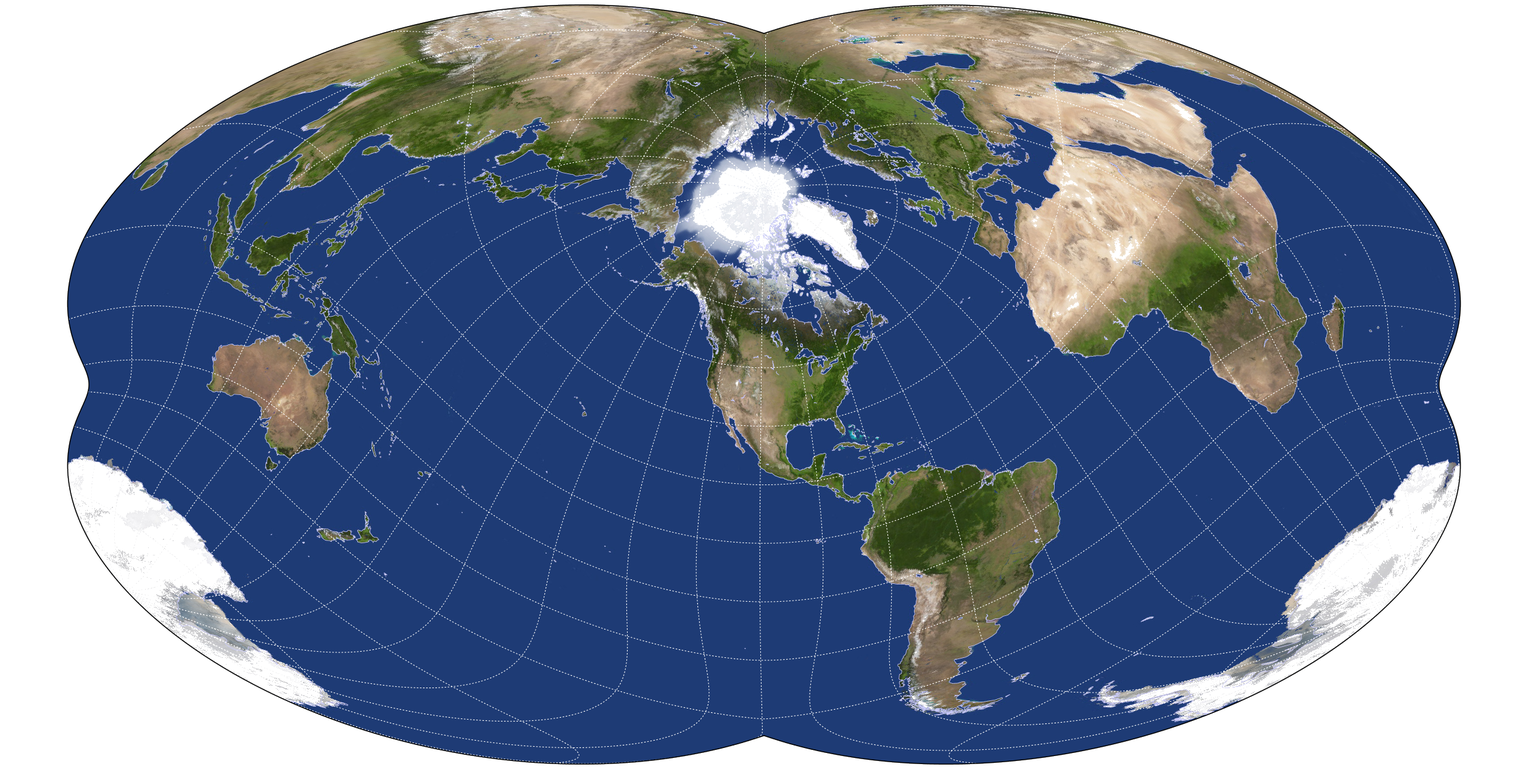
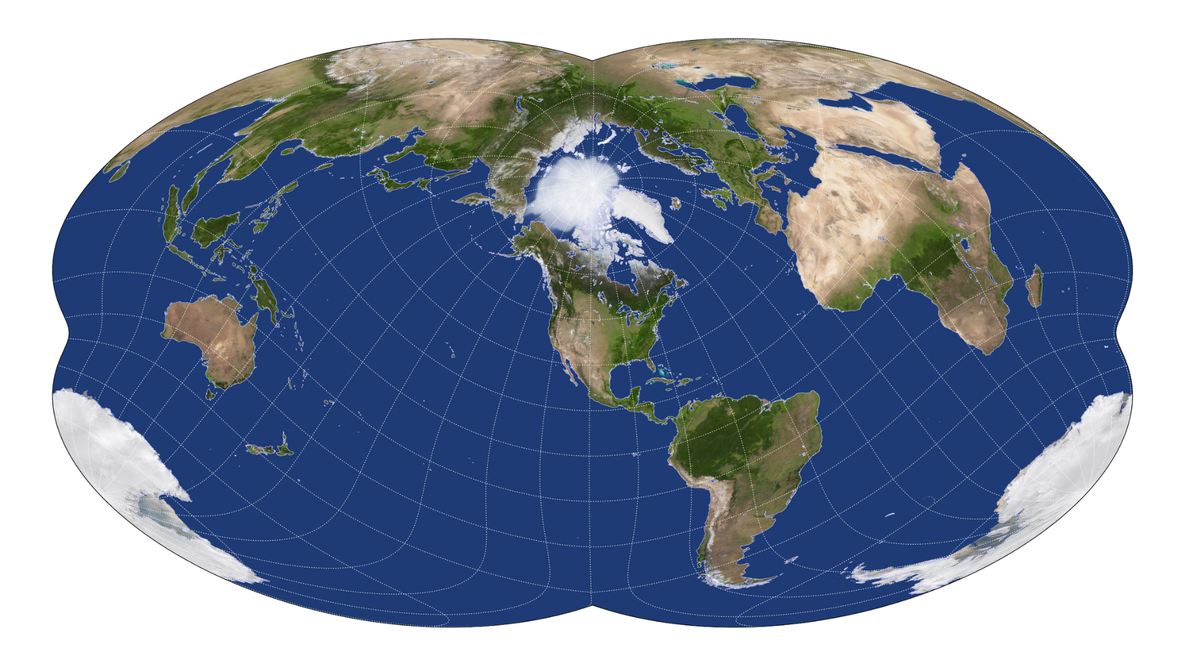
S831 — CP texture: swap to 1920x1080 centred artwork (alpha-keyed)

diff --git a/js-min/core/projections.js b/js-min/core/projections.js
@@ -1,3 +1,3 @@
-const o=Math.PI/180;function p(e,a,t,i){const s=a*o,n=t*i(e);return[n*Math.cos(s),n*Math.sin(s),0]}const _=e=>(90-e)/180,S=e=>Math.sin((90-e)*Math.PI/360),H=e=>Math.pow((90-e)/180,.75);function y(e,a,t=1){const i=e*o,s=a*o,n=Math.cos(i)*Math.cos(s),r=Math.acos(Math.max(-1,Math.min(1,n)));if(r<1e-9)return[0,0,0];const c=r/Math.PI/Math.sin(r);return[t*c*Math.cos(i)*Math.sin(s),t*c*Math.sin(i),0]}function j(e,a){const t=e*e,i=a*a,s=i*i;return e*Math.cos(a)*(.9457+(.2962+.042*t)*i-.1875*s)}function R(e,a){const t=e*e,i=a*a;return .9836*a+(.0472-.0106*t+.0929*i)*t*a*Math.cos(a)}const w=Math.abs(j(Math.PI,0)),V=Math.abs(R(0,Math.PI/2));function G(e,a,t,i){const s=a*o,n=e*o,r=Math.cos(s)*Math.cos(n),c=Math.cos(s)*Math.sin(n),g=Math.sin(s),d=t*o,h=Math.cos(d),l=Math.sin(d),u=r*h+c*l,M=-r*l+c*h,q=g,b=i*o,f=Math.cos(b),I=Math.sin(b),k=u*f+q*I,v=M,N=-u*I+q*f,x=Math.asin(Math.max(-1,Math.min(1,N)));return[Math.atan2(v,k),x]}function W(e,a,t=1,i=40.71,s=-104.01){const[n,r]=G(a,e,s,i),c=j(n,r),g=R(n,r);return[t*c/w,t*g/w,0]}function m(e,a,t=1){return[t*a/180,t*e/360,0]}function O(e,a,t=1){const i=Math.max(-85,Math.min(85,e))*o,s=Math.log(Math.tan(Math.PI/4+i/2));return[t*a/180,t*s/3.131,0]}function L(e,a,t=1){const i=e*o,s=a*o;let n=i;for(let g=0;g<10;g++){const d=2*n+Math.sin(2*n)-Math.PI*Math.sin(i),h=2+2*Math.cos(2*n),l=d/(Math.abs(h)<1e-9?1e-9:h);if(n-=l,Math.abs(l)<1e-8)break}const r=2*Math.sqrt(2)/Math.PI*s*Math.cos(n),c=Math.sqrt(2)*Math.sin(n);return[t*r/(2*Math.sqrt(2)),t*c/(2*Math.sqrt(2)),0]}const E=[[0,1,0],[5,.9986,.062],[10,.9954,.124],[15,.99,.186],[20,.9822,.248],[25,.973,.31],[30,.96,.372],[35,.9427,.434],[40,.9216,.4958],[45,.8962,.5571],[50,.8679,.6176],[55,.835,.6769],[60,.7986,.7346],[65,.7597,.7903],[70,.7186,.8435],[75,.6732,.8936],[80,.6213,.9394],[85,.5722,.9761],[90,.5322,1]];function T(e){const a=Math.max(0,Math.min(17,Math.floor(e/5))),t=E[a],i=E[a+1],s=(e-t[0])/5;return{A:t[1]+s*(i[1]-t[1]),B:t[2]+s*(i[2]-t[2])}}function D(e,a,t=1){const i=e<0?-1:1,{A:s,B:n}=T(Math.abs(e)),r=.8487*s*a*o,c=1.3523*i*n;return[t*r/(.8487*Math.PI),t*c/2.666,0]}function z(e,a,t=1){const i=e*o,s=a*o,n=Math.acos(Math.min(1,Math.cos(i)*Math.cos(s/2))),r=Math.abs(n)<1e-9?1:Math.sin(n)/n,c=2*Math.cos(i)*Math.sin(s/2)/r,g=Math.sin(i)/r,d=Math.acos(2/Math.PI),h=s*Math.cos(d),l=i,u=(c+h)/2,M=(g+l)/2;return[t*u/2.507,t*M/2.507,0]}function B(e,a,t=1){const i=e*o,s=a*o,n=Math.sqrt(1+Math.cos(i)*Math.cos(s/2)),r=2*Math.sqrt(2)*Math.cos(i)*Math.sin(s/2)/n,c=Math.sqrt(2)*Math.sin(i)/n;return[t*r/(2*Math.sqrt(2)),t*c/(2*Math.sqrt(2)),0]}function C(e,a,t=1){const i=e*o,s=a*o,n=Math.acos(Math.min(1,Math.cos(i)*Math.cos(s/2))),r=Math.abs(n)<1e-9?1:Math.sin(n)/n,c=2*Math.cos(i)*Math.sin(s/2)/r,g=Math.sin(i)/r;return[t*c/Math.PI,t*g/Math.PI,0]}function F(e,a,t=1){const i=e*o,n=a*o*Math.cos(i),r=i;return[t*n/Math.PI,t*r/Math.PI,0]}function Q(e,a,t=1){const s=-.081106,n=893e-6,r=.003796,c=Math.sqrt(3)/2,g=e*o,d=a*o,h=Math.asin(c*Math.sin(g)),l=h*h,u=l*l*l,M=c*(1.340264+3*s*l+u*(7*n+9*r*l)),q=d*Math.cos(h)/M,b=h*(1.340264+s*l+u*(n+r*l));return[t*q/2.7,t*b/2.7,0]}function P(e,a,t=1){const i=e*o,s=a*o,n=Math.cos(i)*Math.sin(s),r=Math.sin(i);return[t*n,t*r,0]}function X(e,a,t=1){const i=e*o,s=a*o;let n=i/2;for(let h=0;h<10;h++){const l=n+Math.sin(n)*Math.cos(n)+2*Math.sin(n)-(2+Math.PI/2)*Math.sin(i),u=1+Math.cos(n)*Math.cos(n)-Math.sin(n)*Math.sin(n)+2*Math.cos(n),M=l/(Math.abs(u)<1e-9?1e-9:u);if(n-=M,Math.abs(M)<1e-8)break}const r=2/Math.sqrt(Math.PI*(4+Math.PI)),c=2*Math.sqrt(Math.PI/(4+Math.PI)),g=r*s*(1+Math.cos(n)),d=c*Math.sin(n);return[t*g/(r*Math.PI*2),t*d/(r*Math.PI*2),0]}const A={ae:{id:"ae",name:"Default (AE)",category:"generated",imageAsset:null,imageInscribedRadius:.5,notes:"Azimuthal-equidistant, polar aspect. Pole at disc centre.",project(e,a,t=1){return p(e,a,t,_)}},blank:{id:"blank",name:"Blank (no features)",category:"generated",imageAsset:null,imageInscribedRadius:.5,renderStyle:"blank",notes:"Same math as AE; renders as solid black for coordinate inspection.",project(e,a,t=1){return p(e,a,t,_)}},ae_lineart:{id:"ae_lineart",name:"AE Line Art (black + white outlines)",category:"generated",imageAsset:null,imageInscribedRadius:.5,renderStyle:"lineart",landStyle:{strokeColor:15265525,strokeOpacity:1},notes:"Solid-black AE disc with Natural Earth continents traced in white. Matches the GE Line Art aesthetic so flight-route demos read clean across both projections.",project(e,a,t=1){return p(e,a,t,_)}},hellerick:{id:"hellerick",name:"Hellerick boreal",category:"generated",imageAsset:null,imageInscribedRadius:.5,notes:"Lambert azimuthal equal-area, polar aspect.",project(e,a,t=1){return p(e,a,t,S)}},proportional:{id:"proportional",name:"Proportional AE Map",category:"generated",imageAsset:"assets/map_proportional.png",imageNativeWidth:1920,imageNativeHeight:1080,imageInscribedRadius:.5,imageRotationDeg:79,notes:"Artwork-driven AE power-law tweak (exponent 0.75).",project(e,a,t=1){return p(e,a,t,H)}},ae_dual:{id:"ae_dual",name:"AE Equatorial (dual-pole)",category:"generated",imageAsset:null,imageInscribedRadius:.5,notes:"Azimuthal-equidistant centred at (0\xB0, 0\xB0), edge angle 180\xB0. Both geographic poles fall on the vertical centre-line as distinct points.",project:y},canters_w20:{id:"canters_w20",name:"Canters Polyconic W20",category:"generated",imageAsset:"assets/map_canters_polyconic_w20.png",imageNativeWidth:1944,imageNativeHeight:974,imageInscribedRadius:.5,imageFitMode:"plane",useProjectionGrid:!0,centerLatDeg:40.71,centerLonDeg:-104.01,notes:"Frank Canters' 2002 polyconic W20 \u2014 pseudoconic, near-equal-area. Centred on (40.71\xB0 N, 104.01\xB0 W) per generated artwork.",project(e,a,t=1){return W(e,a,t,this.centerLatDeg,this.centerLonDeg)}},equirect:{id:"equirect",name:"Equirectangular",category:"generated",imageAsset:null,imageInscribedRadius:.5,notes:"Plate carr\xE9e: x = lon, y = lat. 2:1 aspect.",project:m},mercator:{id:"mercator",name:"Mercator",category:"generated",imageAsset:null,imageInscribedRadius:.5,notes:"Conformal cylindrical; poles diverge, clamped to \xB185\xB0.",project:O},mollweide:{id:"mollweide",name:"Mollweide",category:"generated",imageAsset:null,imageInscribedRadius:.5,notes:"Pseudocylindrical equal-area ellipse, 2:1.",project:L},robinson:{id:"robinson",name:"Robinson",category:"generated",imageAsset:null,imageInscribedRadius:.5,notes:"Pseudocylindrical compromise, 5\xB0-spaced lookup table.",project:D},winkel_tripel:{id:"winkel_tripel",name:"Winkel Tripel",category:"generated",imageAsset:null,imageInscribedRadius:.5,notes:"Mean of Aitoff and equirectangular at \u03C6 = acos(2/\u03C0); National Geographic standard.",project:z},hammer:{id:"hammer",name:"Hammer",category:"generated",imageAsset:null,imageInscribedRadius:.5,notes:"Lambert azimuthal equal-area, horizontally squashed 2:1.",project:B},aitoff:{id:"aitoff",name:"Aitoff",category:"generated",imageAsset:null,imageInscribedRadius:.5,notes:"Equirectangular scaled by sinc(\u03B1) over halved longitude.",project:C},sinusoidal:{id:"sinusoidal",name:"Sinusoidal",category:"generated",imageAsset:null,imageInscribedRadius:.5,notes:"Equal-area with sine-curved meridians.",project:F},equal_earth:{id:"equal_earth",name:"Equal Earth",category:"generated",imageAsset:null,imageInscribedRadius:.5,notes:"Equal-area polynomial, Savri\u010D\u2013Patterson\u2013Jenny (2018).",project:Q},eckert4:{id:"eckert4",name:"Eckert IV",category:"generated",imageAsset:null,imageInscribedRadius:.5,notes:"Pseudocylindrical equal-area with pole-line.",project:X},orthographic:{id:"orthographic",name:"Orthographic",category:"generated",imageAsset:null,imageInscribedRadius:.5,notes:"View of one hemisphere from infinity, centred on (0\xB0, 0\xB0).",project:P},hq_blank:{id:"hq_blank",name:"Blank (black disc)",category:"hq",imageAsset:null,imageInscribedRadius:.5,renderStyle:"blank",notes:"Solid-black disc; AE polar math drives the FE grid.",project(e,a,t=1){return p(e,a,t,_)}},hq_equirect_day:{id:"hq_equirect_day",name:"HQ Equirectangular (day)",category:"hq",imageAsset:"assets/map_hq_equirect_day.webp",imageAssetFallback:"assets/map_hq_equirect_day.jpg",imageNativeWidth:2048,imageNativeHeight:1024,imageInscribedRadius:.5,wrapsSphere:!0,notes:"NASA Blue Marble equirectangular daymap.",project:m},hq_equirect_night:{id:"hq_equirect_night",name:"HQ Equirectangular (night)",category:"hq",imageAsset:"assets/map_hq_equirect_night.webp",imageAssetFallback:"assets/map_hq_equirect_night.jpg",imageNativeWidth:2048,imageNativeHeight:1024,imageInscribedRadius:.5,wrapsSphere:!0,notes:"NASA Black Marble equirectangular nightmap.",project:m},hq_ae_dual:{id:"hq_ae_dual",name:"HQ AE Equatorial (dual-pole)",category:"hq",imageAsset:"assets/map_hq_ae_dual.png",imageNativeWidth:2476,imageNativeHeight:1246,imageInscribedRadius:.5,notes:"Azimuthal-equidistant centred at (0\xB0, 0\xB0), edge angle 180\xB0.",project:y},dp:{id:"dp",name:"DP (Dual Pole)",category:"hq",imageAsset:"assets/map_hq_ae_dual.png",imageNativeWidth:2476,imageNativeHeight:1246,imageInscribedRadius:.5,useProjectionGrid:!0,notes:"Dual Pole \u2014 azimuthal-equidistant centred at (0\xB0, 0\xB0). Both geographic poles fall on the vertical centre-line as distinct points. FE lat/lon graticule renders with this projection rather than canonical north-pole AE.",project:y},hq_ae_polar_day:{id:"hq_ae_polar_day",name:"HQ AE Polar (day)",category:"hq",imageAsset:"assets/map_hq_ae_polar_day.png",imageNativeWidth:2476,imageNativeHeight:1246,imageInscribedRadius:.5,notes:"Azimuthal-equidistant polar aspect, north pole at centre, daymap.",project(e,a,t=1){return p(e,a,t,_)}},hq_ae_polar_night:{id:"hq_ae_polar_night",name:"HQ AE Polar (night)",category:"hq",imageAsset:"assets/map_hq_ae_polar_night.png",imageNativeWidth:2476,imageNativeHeight:1246,imageInscribedRadius:.5,notes:"Azimuthal-equidistant polar aspect, north pole at centre, nightmap.",project(e,a,t=1){return p(e,a,t,_)}},hq_gleasons:{id:"hq_gleasons",name:"HQ Gleason's Map",category:"hq",imageAsset:"assets/map_hq_gleasons.png",imageNativeWidth:1920,imageNativeHeight:1080,imageInscribedRadius:.5,notes:"Gleason's New Standard Map of the World \u2014 north-pole AE.",project(e,a,t=1){return p(e,a,t,_)}},hq_world_shaded:{id:"hq_world_shaded",name:"HQ World Shaded Relief",category:"hq",imageAsset:"assets/map_hq_world_shaded.jpg",imageNativeWidth:7998,imageNativeHeight:3999,imageInscribedRadius:.5,wrapsSphere:!0,notes:"High-resolution equirectangular shaded relief (~43 k px wide source).",project:m},ge_art_line:{id:"ge_art_line",name:"GE Art \u2014 Line Art",category:"ge_art",generatedGeTexture:"ge_line_art",imageAsset:null,imageInscribedRadius:.5,wrapsSphere:!0,notes:"White-on-black line art continents drawn from Natural Earth.",project:m},ge_art_blueprint:{id:"ge_art_blueprint",name:"GE Art \u2014 Blueprint",category:"ge_art",generatedGeTexture:"ge_blueprint",imageAsset:null,imageInscribedRadius:.5,wrapsSphere:!0,notes:"Cyan continents over navy with a 30\xB0/15\xB0 graticule.",project:m},ge_art_topo:{id:"ge_art_topo",name:"GE Art \u2014 Topo",category:"ge_art",generatedGeTexture:"ge_topo",imageAsset:null,imageInscribedRadius:.5,wrapsSphere:!0,notes:"Filled green continents on pale-blue ocean, dark-green coastlines.",project:m},ge_art_sepia:{id:"ge_art_sepia",name:"GE Art \u2014 Sepia",category:"ge_art",generatedGeTexture:"ge_sepia",imageAsset:null,imageInscribedRadius:.5,wrapsSphere:!0,notes:"Old-atlas sepia tones with a 30\xB0 graticule.",project:m},ge_art_neon:{id:"ge_art_neon",name:"GE Art \u2014 Neon",category:"ge_art",generatedGeTexture:"ge_neon",imageAsset:null,imageInscribedRadius:.5,wrapsSphere:!0,notes:"Magenta + cyan glow coastlines on near-black ocean.",project:m},ge_art_translucent:{id:"ge_art_translucent",name:"GE Art \u2014 Translucent",category:"ge_art",generatedGeTexture:"ge_translucent",imageAsset:null,imageInscribedRadius:.5,wrapsSphere:!0,geOpacity:.12,notes:"See-through globe \u2014 faint blue continents, lets the centre observer view the celestial sphere through the shell.",project:m},hq_ortho:{id:"hq_ortho",name:"HQ Orthographic Globe",category:"hq",imageAsset:"assets/map_hq_ortho.png",imageNativeWidth:2476,imageNativeHeight:1246,imageInscribedRadius:.5,notes:"Orthographic globe view, centred on (0\xB0, 0\xB0).",project:P}};function J(e){return A[e]||A.ae}function K(){return Object.values(A).map(e=>({value:e.id,label:e.name}))}function U(){return Object.values(A).filter(e=>e.category==="generated").map(e=>({value:e.id,label:e.name}))}function Z(){return Object.values(A).filter(e=>e.category==="hq").map(e=>({value:e.id,label:e.name}))}function $(){return Object.values(A).filter(e=>e.wrapsSphere===!0).map(e=>({value:e.id,label:e.name}))}export{A as PROJECTIONS,J as getProjection,$ as listGeMaps,U as listGeneratedProjections,Z as listHqMaps,K as listProjections};
+const o=Math.PI/180;function p(e,a,t,i){const s=a*o,n=t*i(e);return[n*Math.cos(s),n*Math.sin(s),0]}const _=e=>(90-e)/180,S=e=>Math.sin((90-e)*Math.PI/360),H=e=>Math.pow((90-e)/180,.75);function y(e,a,t=1){const i=e*o,s=a*o,n=Math.cos(i)*Math.cos(s),r=Math.acos(Math.max(-1,Math.min(1,n)));if(r<1e-9)return[0,0,0];const c=r/Math.PI/Math.sin(r);return[t*c*Math.cos(i)*Math.sin(s),t*c*Math.sin(i),0]}function j(e,a){const t=e*e,i=a*a,s=i*i;return e*Math.cos(a)*(.9457+(.2962+.042*t)*i-.1875*s)}function R(e,a){const t=e*e,i=a*a;return .9836*a+(.0472-.0106*t+.0929*i)*t*a*Math.cos(a)}const w=Math.abs(j(Math.PI,0)),V=Math.abs(R(0,Math.PI/2));function G(e,a,t,i){const s=a*o,n=e*o,r=Math.cos(s)*Math.cos(n),c=Math.cos(s)*Math.sin(n),g=Math.sin(s),d=t*o,h=Math.cos(d),l=Math.sin(d),u=r*h+c*l,M=-r*l+c*h,q=g,b=i*o,f=Math.cos(b),I=Math.sin(b),k=u*f+q*I,v=M,N=-u*I+q*f,x=Math.asin(Math.max(-1,Math.min(1,N)));return[Math.atan2(v,k),x]}function W(e,a,t=1,i=40.71,s=-104.01){const[n,r]=G(a,e,s,i),c=j(n,r),g=R(n,r);return[t*c/w,t*g/w,0]}function m(e,a,t=1){return[t*a/180,t*e/360,0]}function O(e,a,t=1){const i=Math.max(-85,Math.min(85,e))*o,s=Math.log(Math.tan(Math.PI/4+i/2));return[t*a/180,t*s/3.131,0]}function L(e,a,t=1){const i=e*o,s=a*o;let n=i;for(let g=0;g<10;g++){const d=2*n+Math.sin(2*n)-Math.PI*Math.sin(i),h=2+2*Math.cos(2*n),l=d/(Math.abs(h)<1e-9?1e-9:h);if(n-=l,Math.abs(l)<1e-8)break}const r=2*Math.sqrt(2)/Math.PI*s*Math.cos(n),c=Math.sqrt(2)*Math.sin(n);return[t*r/(2*Math.sqrt(2)),t*c/(2*Math.sqrt(2)),0]}const E=[[0,1,0],[5,.9986,.062],[10,.9954,.124],[15,.99,.186],[20,.9822,.248],[25,.973,.31],[30,.96,.372],[35,.9427,.434],[40,.9216,.4958],[45,.8962,.5571],[50,.8679,.6176],[55,.835,.6769],[60,.7986,.7346],[65,.7597,.7903],[70,.7186,.8435],[75,.6732,.8936],[80,.6213,.9394],[85,.5722,.9761],[90,.5322,1]];function T(e){const a=Math.max(0,Math.min(17,Math.floor(e/5))),t=E[a],i=E[a+1],s=(e-t[0])/5;return{A:t[1]+s*(i[1]-t[1]),B:t[2]+s*(i[2]-t[2])}}function D(e,a,t=1){const i=e<0?-1:1,{A:s,B:n}=T(Math.abs(e)),r=.8487*s*a*o,c=1.3523*i*n;return[t*r/(.8487*Math.PI),t*c/2.666,0]}function z(e,a,t=1){const i=e*o,s=a*o,n=Math.acos(Math.min(1,Math.cos(i)*Math.cos(s/2))),r=Math.abs(n)<1e-9?1:Math.sin(n)/n,c=2*Math.cos(i)*Math.sin(s/2)/r,g=Math.sin(i)/r,d=Math.acos(2/Math.PI),h=s*Math.cos(d),l=i,u=(c+h)/2,M=(g+l)/2;return[t*u/2.507,t*M/2.507,0]}function B(e,a,t=1){const i=e*o,s=a*o,n=Math.sqrt(1+Math.cos(i)*Math.cos(s/2)),r=2*Math.sqrt(2)*Math.cos(i)*Math.sin(s/2)/n,c=Math.sqrt(2)*Math.sin(i)/n;return[t*r/(2*Math.sqrt(2)),t*c/(2*Math.sqrt(2)),0]}function C(e,a,t=1){const i=e*o,s=a*o,n=Math.acos(Math.min(1,Math.cos(i)*Math.cos(s/2))),r=Math.abs(n)<1e-9?1:Math.sin(n)/n,c=2*Math.cos(i)*Math.sin(s/2)/r,g=Math.sin(i)/r;return[t*c/Math.PI,t*g/Math.PI,0]}function F(e,a,t=1){const i=e*o,n=a*o*Math.cos(i),r=i;return[t*n/Math.PI,t*r/Math.PI,0]}function Q(e,a,t=1){const s=-.081106,n=893e-6,r=.003796,c=Math.sqrt(3)/2,g=e*o,d=a*o,h=Math.asin(c*Math.sin(g)),l=h*h,u=l*l*l,M=c*(1.340264+3*s*l+u*(7*n+9*r*l)),q=d*Math.cos(h)/M,b=h*(1.340264+s*l+u*(n+r*l));return[t*q/2.7,t*b/2.7,0]}function P(e,a,t=1){const i=e*o,s=a*o,n=Math.cos(i)*Math.sin(s),r=Math.sin(i);return[t*n,t*r,0]}function X(e,a,t=1){const i=e*o,s=a*o;let n=i/2;for(let h=0;h<10;h++){const l=n+Math.sin(n)*Math.cos(n)+2*Math.sin(n)-(2+Math.PI/2)*Math.sin(i),u=1+Math.cos(n)*Math.cos(n)-Math.sin(n)*Math.sin(n)+2*Math.cos(n),M=l/(Math.abs(u)<1e-9?1e-9:u);if(n-=M,Math.abs(M)<1e-8)break}const r=2/Math.sqrt(Math.PI*(4+Math.PI)),c=2*Math.sqrt(Math.PI/(4+Math.PI)),g=r*s*(1+Math.cos(n)),d=c*Math.sin(n);return[t*g/(r*Math.PI*2),t*d/(r*Math.PI*2),0]}const A={ae:{id:"ae",name:"Default (AE)",category:"generated",imageAsset:null,imageInscribedRadius:.5,notes:"Azimuthal-equidistant, polar aspect. Pole at disc centre.",project(e,a,t=1){return p(e,a,t,_)}},blank:{id:"blank",name:"Blank (no features)",category:"generated",imageAsset:null,imageInscribedRadius:.5,renderStyle:"blank",notes:"Same math as AE; renders as solid black for coordinate inspection.",project(e,a,t=1){return p(e,a,t,_)}},ae_lineart:{id:"ae_lineart",name:"AE Line Art (black + white outlines)",category:"generated",imageAsset:null,imageInscribedRadius:.5,renderStyle:"lineart",landStyle:{strokeColor:15265525,strokeOpacity:1},notes:"Solid-black AE disc with Natural Earth continents traced in white. Matches the GE Line Art aesthetic so flight-route demos read clean across both projections.",project(e,a,t=1){return p(e,a,t,_)}},hellerick:{id:"hellerick",name:"Hellerick boreal",category:"generated",imageAsset:null,imageInscribedRadius:.5,notes:"Lambert azimuthal equal-area, polar aspect.",project(e,a,t=1){return p(e,a,t,S)}},proportional:{id:"proportional",name:"Proportional AE Map",category:"generated",imageAsset:"assets/map_proportional.png",imageNativeWidth:1920,imageNativeHeight:1080,imageInscribedRadius:.5,imageRotationDeg:79,notes:"Artwork-driven AE power-law tweak (exponent 0.75).",project(e,a,t=1){return p(e,a,t,H)}},ae_dual:{id:"ae_dual",name:"AE Equatorial (dual-pole)",category:"generated",imageAsset:null,imageInscribedRadius:.5,notes:"Azimuthal-equidistant centred at (0\xB0, 0\xB0), edge angle 180\xB0. Both geographic poles fall on the vertical centre-line as distinct points.",project:y},canters_w20:{id:"canters_w20",name:"Canters Polyconic W20",category:"generated",imageAsset:"assets/map_canters_polyconic_w20.png",imageNativeWidth:1920,imageNativeHeight:1080,imageInscribedRadius:.5,imageFitMode:"plane",useProjectionGrid:!0,centerLatDeg:40.71,centerLonDeg:-104.01,notes:"Frank Canters' 2002 polyconic W20 \u2014 pseudoconic, near-equal-area. Centred on (40.71\xB0 N, 104.01\xB0 W) per generated artwork.",project(e,a,t=1){return W(e,a,t,this.centerLatDeg,this.centerLonDeg)}},equirect:{id:"equirect",name:"Equirectangular",category:"generated",imageAsset:null,imageInscribedRadius:.5,notes:"Plate carr\xE9e: x = lon, y = lat. 2:1 aspect.",project:m},mercator:{id:"mercator",name:"Mercator",category:"generated",imageAsset:null,imageInscribedRadius:.5,notes:"Conformal cylindrical; poles diverge, clamped to \xB185\xB0.",project:O},mollweide:{id:"mollweide",name:"Mollweide",category:"generated",imageAsset:null,imageInscribedRadius:.5,notes:"Pseudocylindrical equal-area ellipse, 2:1.",project:L},robinson:{id:"robinson",name:"Robinson",category:"generated",imageAsset:null,imageInscribedRadius:.5,notes:"Pseudocylindrical compromise, 5\xB0-spaced lookup table.",project:D},winkel_tripel:{id:"winkel_tripel",name:"Winkel Tripel",category:"generated",imageAsset:null,imageInscribedRadius:.5,notes:"Mean of Aitoff and equirectangular at \u03C6 = acos(2/\u03C0); National Geographic standard.",project:z},hammer:{id:"hammer",name:"Hammer",category:"generated",imageAsset:null,imageInscribedRadius:.5,notes:"Lambert azimuthal equal-area, horizontally squashed 2:1.",project:B},aitoff:{id:"aitoff",name:"Aitoff",category:"generated",imageAsset:null,imageInscribedRadius:.5,notes:"Equirectangular scaled by sinc(\u03B1) over halved longitude.",project:C},sinusoidal:{id:"sinusoidal",name:"Sinusoidal",category:"generated",imageAsset:null,imageInscribedRadius:.5,notes:"Equal-area with sine-curved meridians.",project:F},equal_earth:{id:"equal_earth",name:"Equal Earth",category:"generated",imageAsset:null,imageInscribedRadius:.5,notes:"Equal-area polynomial, Savri\u010D\u2013Patterson\u2013Jenny (2018).",project:Q},eckert4:{id:"eckert4",name:"Eckert IV",category:"generated",imageAsset:null,imageInscribedRadius:.5,notes:"Pseudocylindrical equal-area with pole-line.",project:X},orthographic:{id:"orthographic",name:"Orthographic",category:"generated",imageAsset:null,imageInscribedRadius:.5,notes:"View of one hemisphere from infinity, centred on (0\xB0, 0\xB0).",project:P},hq_blank:{id:"hq_blank",name:"Blank (black disc)",category:"hq",imageAsset:null,imageInscribedRadius:.5,renderStyle:"blank",notes:"Solid-black disc; AE polar math drives the FE grid.",project(e,a,t=1){return p(e,a,t,_)}},hq_equirect_day:{id:"hq_equirect_day",name:"HQ Equirectangular (day)",category:"hq",imageAsset:"assets/map_hq_equirect_day.webp",imageAssetFallback:"assets/map_hq_equirect_day.jpg",imageNativeWidth:2048,imageNativeHeight:1024,imageInscribedRadius:.5,wrapsSphere:!0,notes:"NASA Blue Marble equirectangular daymap.",project:m},hq_equirect_night:{id:"hq_equirect_night",name:"HQ Equirectangular (night)",category:"hq",imageAsset:"assets/map_hq_equirect_night.webp",imageAssetFallback:"assets/map_hq_equirect_night.jpg",imageNativeWidth:2048,imageNativeHeight:1024,imageInscribedRadius:.5,wrapsSphere:!0,notes:"NASA Black Marble equirectangular nightmap.",project:m},hq_ae_dual:{id:"hq_ae_dual",name:"HQ AE Equatorial (dual-pole)",category:"hq",imageAsset:"assets/map_hq_ae_dual.png",imageNativeWidth:2476,imageNativeHeight:1246,imageInscribedRadius:.5,notes:"Azimuthal-equidistant centred at (0\xB0, 0\xB0), edge angle 180\xB0.",project:y},dp:{id:"dp",name:"DP (Dual Pole)",category:"hq",imageAsset:"assets/map_hq_ae_dual.png",imageNativeWidth:2476,imageNativeHeight:1246,imageInscribedRadius:.5,useProjectionGrid:!0,notes:"Dual Pole \u2014 azimuthal-equidistant centred at (0\xB0, 0\xB0). Both geographic poles fall on the vertical centre-line as distinct points. FE lat/lon graticule renders with this projection rather than canonical north-pole AE.",project:y},hq_ae_polar_day:{id:"hq_ae_polar_day",name:"HQ AE Polar (day)",category:"hq",imageAsset:"assets/map_hq_ae_polar_day.png",imageNativeWidth:2476,imageNativeHeight:1246,imageInscribedRadius:.5,notes:"Azimuthal-equidistant polar aspect, north pole at centre, daymap.",project(e,a,t=1){return p(e,a,t,_)}},hq_ae_polar_night:{id:"hq_ae_polar_night",name:"HQ AE Polar (night)",category:"hq",imageAsset:"assets/map_hq_ae_polar_night.png",imageNativeWidth:2476,imageNativeHeight:1246,imageInscribedRadius:.5,notes:"Azimuthal-equidistant polar aspect, north pole at centre, nightmap.",project(e,a,t=1){return p(e,a,t,_)}},hq_gleasons:{id:"hq_gleasons",name:"HQ Gleason's Map",category:"hq",imageAsset:"assets/map_hq_gleasons.png",imageNativeWidth:1920,imageNativeHeight:1080,imageInscribedRadius:.5,notes:"Gleason's New Standard Map of the World \u2014 north-pole AE.",project(e,a,t=1){return p(e,a,t,_)}},hq_world_shaded:{id:"hq_world_shaded",name:"HQ World Shaded Relief",category:"hq",imageAsset:"assets/map_hq_world_shaded.jpg",imageNativeWidth:7998,imageNativeHeight:3999,imageInscribedRadius:.5,wrapsSphere:!0,notes:"High-resolution equirectangular shaded relief (~43 k px wide source).",project:m},ge_art_line:{id:"ge_art_line",name:"GE Art \u2014 Line Art",category:"ge_art",generatedGeTexture:"ge_line_art",imageAsset:null,imageInscribedRadius:.5,wrapsSphere:!0,notes:"White-on-black line art continents drawn from Natural Earth.",project:m},ge_art_blueprint:{id:"ge_art_blueprint",name:"GE Art \u2014 Blueprint",category:"ge_art",generatedGeTexture:"ge_blueprint",imageAsset:null,imageInscribedRadius:.5,wrapsSphere:!0,notes:"Cyan continents over navy with a 30\xB0/15\xB0 graticule.",project:m},ge_art_topo:{id:"ge_art_topo",name:"GE Art \u2014 Topo",category:"ge_art",generatedGeTexture:"ge_topo",imageAsset:null,imageInscribedRadius:.5,wrapsSphere:!0,notes:"Filled green continents on pale-blue ocean, dark-green coastlines.",project:m},ge_art_sepia:{id:"ge_art_sepia",name:"GE Art \u2014 Sepia",category:"ge_art",generatedGeTexture:"ge_sepia",imageAsset:null,imageInscribedRadius:.5,wrapsSphere:!0,notes:"Old-atlas sepia tones with a 30\xB0 graticule.",project:m},ge_art_neon:{id:"ge_art_neon",name:"GE Art \u2014 Neon",category:"ge_art",generatedGeTexture:"ge_neon",imageAsset:null,imageInscribedRadius:.5,wrapsSphere:!0,notes:"Magenta + cyan glow coastlines on near-black ocean.",project:m},ge_art_translucent:{id:"ge_art_translucent",name:"GE Art \u2014 Translucent",category:"ge_art",generatedGeTexture:"ge_translucent",imageAsset:null,imageInscribedRadius:.5,wrapsSphere:!0,geOpacity:.12,notes:"See-through globe \u2014 faint blue continents, lets the centre observer view the celestial sphere through the shell.",project:m},hq_ortho:{id:"hq_ortho",name:"HQ Orthographic Globe",category:"hq",imageAsset:"assets/map_hq_ortho.png",imageNativeWidth:2476,imageNativeHeight:1246,imageInscribedRadius:.5,notes:"Orthographic globe view, centred on (0\xB0, 0\xB0).",project:P}};function J(e){return A[e]||A.ae}function K(){return Object.values(A).map(e=>({value:e.id,label:e.name}))}function U(){return Object.values(A).filter(e=>e.category==="generated").map(e=>({value:e.id,label:e.name}))}function Z(){return Object.values(A).filter(e=>e.category==="hq").map(e=>({value:e.id,label:e.name}))}function $(){return Object.values(A).filter(e=>e.wrapsSphere===!0).map(e=>({value:e.id,label:e.name}))}export{A as PROJECTIONS,J as getProjection,$ as listGeMaps,U as listGeneratedProjections,Z as listHqMaps,K as listProjections};
 
 //# sourceMappingURL=projections.js.map

diff --git a/js/core/projections.js b/js/core/projections.js
@@ -311,16 +311,16 @@ export const PROJECTIONS = {
     id: 'canters_w20', name: 'Canters Polyconic W20',
     category: 'generated',
     imageAsset: 'assets/map_canters_polyconic_w20.png',
-    imageNativeWidth: 1944, imageNativeHeight: 974,
+    imageNativeWidth: 1920, imageNativeHeight: 1080,
     imageInscribedRadius: 0.5,
-    // Render the full texture on a 2:1 plane (not a cropped
-    // circle) so the lobed three-way boundary stays visible.
+    // Render the full texture on a plane sized to its aspect
+    // (not a cropped circle) so the lobed boundary stays visible.
     imageFitMode: 'plane',
     // Drives the canonical disc framework when CP world model is
     // active — observer position, GPs, eclipse paths, lat/lon
     // graticule all flow through this projection.
     useProjectionGrid: true,
-    // Center pre-baked into the texture (Boulder, CO area).
+    // Center pre-baked into the 1920×1080 artwork (Boulder, CO).
     centerLatDeg: 40.71, centerLonDeg: -104.01,
     notes: 'Frank Canters\' 2002 polyconic W20 — pseudoconic, near-equal-area. Centred on (40.71° N, 104.01° W) per generated artwork.',
     project(lat, lon, r = 1) {

diff --git a/change_log_serials.md b/change_log_serials.md
@@ -14585,6 +14585,23 @@ Format:
   default when a user has previously persisted the off state.
 - **Revert path:** `git checkout v-s000766 -- .`
 
+## S831 — CP texture: swap to 1920×1080 centred artwork (already alpha-keyed)
+
+- **Date:** 2026-05-03
+- **Files changed:**
+  `assets/map_canters_polyconic_w20.png`,
+  `js/core/projections.js`, `js-min/**` (rebuilt)
+- **Change:** Replaced the texture asset with the user-supplied
+  1920×1080 PNG (`canter-polyconical.png` from `~/Downloads/`).
+  New artwork is already alpha-keyed (transparent corners) and
+  has its lobed boundary centred in the frame, so the plane
+  geometry's mid-point now lines up with the projection's
+  centre (40.71°N, 104.01°W). Updated
+  `imageNativeWidth/Height` to 1920×1080. No code-side
+  geometry changes; the plane-fit logic picks the new
+  16:9 aspect automatically.
+- **Revert path:** `git checkout v-s000830 -- .`
+
 ## S830 — CP world model: snap observer to projection centre on entry
 
 - **Date:** 2026-05-02
